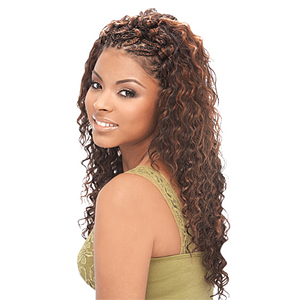
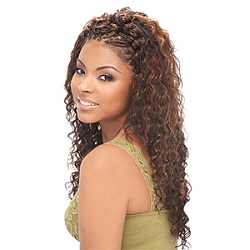
comment

diff --git a/web/js/events/events_mybookings.js b/web/js/events/events_mybookings.js
@@ -3,10 +3,11 @@
 $(document).ready(function() {
 	if (getCookie("mobileops_temp_login") == null) {
 		if(getCookie("mobileops") == null){
-			console.log('mobileops_temp_login and mobileops are null');
-			window.location.href = "/index.php?logout";
-		}else{
-			//saveCookieToSession();
+			//if user just logged in sometimes the system checks for the cookie before its created
+			var referrer = document.referrer;
+			if(referrer.localeCompare("http://localhost/index.php?login") !== 0){
+				window.location.href = "/index.php?logout";
+			}
 		}
 	}
 

diff --git a/web/css/style.css b/web/css/style.css
@@ -1509,6 +1509,6 @@ width:100%;
 
 
 .home_images{
-	width:250px;
-	height:250px;
+	max-width:250px;
+	max-height:250px;
 }

diff --git a/src/AppBundle/Controller/controller_booking.php b/src/AppBundle/Controller/controller_booking.php
@@ -193,13 +193,13 @@ function regionServiceDTOtoBookingServiceRegionService($regionServicePriceDTO,$b
 
 
 function getBookingsByUserId($entityManager,$userObject){
-	$booking_object     = $entityManager->getRepository('Booking')->findBy(array('active' => TRUE,'user' => $userObject));
+	$booking_objects     = $entityManager->getRepository('Booking')->findBy(array('active' => TRUE,'user' => $userObject));
 	$activeBookingsArray = array ();
 
-	foreach ($booking_object as &$value) {
+	foreach ($booking_objects as &$value) {
 		array_push($activeBookingsArray,$value);
 	}
-	$_SESSION['user_bookings'] = $activeBookingsArray;
+	$_SESSION['user_bookings'] = serialize($activeBookingsArray);
 	
 	return $activeBookingsArray;
 }
@@ -214,7 +214,7 @@ function getBookingsByPartnerId($entityManager,$userObject){
 		$booking_object = $value->getBooking();
 		array_push($activeBookingsArray,$booking_object);
 	}
-	$_SESSION['user_bookings'] = $activeBookingsArray;
+	$_SESSION['user_bookings'] = serialize($activeBookingsArray);
 
 	
 	return $activeBookingsArray;
@@ -397,7 +397,7 @@ function completeBooking($entityManager){
 		$suburb = $_POST['sublocality'];
 		$city = $_POST['locality'];
 
-		$_SESSION['booking_user'] = $_POST ['name'];
+		$_SESSION['booking_user'] = $_POST ['firstname'];
 
 		$date = new DateTime();
 
@@ -437,7 +437,7 @@ function completeBooking($entityManager){
 		
 		$booking_user_profile  = new BookingUserProfile();
 		$booking_user_profile->setEmailAddress($_POST ['email']);
-		$booking_user_profile->setFirstName($_POST ['name']);
+		$booking_user_profile->setFirstName($_POST ['firstname']);
 		$booking_user_profile->setPhoneNumber($_POST ['mobile_number']);
 		$booking_user_profile->setSurname($_POST ['surname']);
 		$booking_user_profile->setDateCreated($date);
@@ -488,7 +488,7 @@ function completeBooking($entityManager){
 			return;
 		}
 
-		$bookingComments = addBookingComments($entityManager,$booking,$_POST['bookingNotes'],$_POST ['name']);
+		$bookingComments = addBookingComments($entityManager,$booking,$_POST['bookingNotes'],$_POST ['firstname']);
 
 		
 		if(!$bookingComments){
@@ -644,10 +644,11 @@ function getBookingsInCalender($entityManager){
 	$user_bookings = null;
 	if (isset($_SESSION['user_bookings']))
 	{
-		//$user_bookings = $_SESSION['user_bookings'];
+		$user_bookings = unserialize($_SESSION['user_bookings']);
 	}
 
 	if($user_bookings==null){
+		echo "this is still called";
 		$user_object = $entityManager->getRepository('User')->findOneBy(array('active' => TRUE,'userId' => $_SESSION['user_id']));
 		if($user_object && strcmp($_SESSION['user_role'], "CLIENT") == 0 ){
 			$user_bookings = getBookingsByUserId($entityManager,$user_object);
@@ -697,7 +698,7 @@ function getAllUserBookings($entityManager){
 			array_push ($bookings_array, $value);
 		}
 
-		$_SESSION['user_bookings'] = $bookings_array;
+		$_SESSION['user_bookings'] = serialize($bookings_array);
 
 		$response['status'] = 1;
 		$response['message'] = $bookings_array;
@@ -721,7 +722,7 @@ function getAllUserBookingsFromUserSession($entityManager){
 			array_push ($bookings_array, $value);
 		}
 
-		$_SESSION['user_bookings'] = $bookings_array;
+		$_SESSION['user_bookings'] = serialize($bookings_array);
 
 		$response['status'] = 1;
 		$response['message'] = $bookings_array;
@@ -752,7 +753,7 @@ function getBookingTimeDetails($entityManager){
 
 function getBookingFromSessionByID($booking_id){
 
-	$user_bookings_in_session = $_SESSION['user_bookings'];
+	$user_bookings_in_session = unserialize($_SESSION['user_bookings']);
 	$booking = null;
 
 	if($user_bookings_in_session!=null){
@@ -1551,14 +1552,14 @@ function changeBookingUserProfileStatus($entityManager,$currentBookingUserProfil
 
 function send_booking_confirmation_message($entityManager, $booking_id){
 	try {
-		$name = $_POST ['name'];
+		$name = $_POST ['firstname'];
 		$surname = $_POST ['surname'];
 		$email = $_POST ['email'];
 		$phone_number = $_POST ['mobile_number'];
 		$message_type = "booking_confirmation";
 		$message = "test";
 
-		$personalDetails = $_POST['name'] . " " . $_POST['surname'] . "<br/>" 
+		$personalDetails = $_POST['firstname'] . " " . $_POST['surname'] . "<br/>" 
 		.  $_POST ['email'] . "<br/>" . 
 		$_POST ['mobile_number']. "<br/>
 		<h4>APPOINTMENT ADDRESS</h4>". "<p>"
@@ -1569,7 +1570,7 @@ function send_booking_confirmation_message($entityManager, $booking_id){
 		. $_POST['locality'];
 		
 		$Parameters = array(
-				"first_name" => $_POST['name'],
+				"first_name" => $_POST['firstname'],
 				"last_name" => $_POST['surname'],
 				"mobile_number" => $_POST['mobile_number'],
 				"personal_details" => $personalDetails,

diff --git a/src/AppBundle/Logic/login.php b/src/AppBundle/Logic/login.php
@@ -136,7 +136,7 @@ class Login {
 
 								//print_r($json);
 								//save temp login cookie expiring after 24hrs
-								setcookie ( "mobileops_temp_login", $json, time () + (3600), "/" ); // here we are setting a cookie named username, with the Username on the database that will last 48 hours and will be set on the understandesign.com domain. This is an optional parameter.
+								//setcookie ( "mobileops_temp_login", $json, time () + (3600), "/" ); // here we are setting a cookie named username, with the Username on the database that will last 48 hours and will be set on the understandesign.com domain. This is an optional parameter.
 								
 								if (isset ( $_POST ['rememberme'] )) {
 									setcookie ( "mobileops", $json, time () + (86400 * 30), "/" ); // here we are setting a cookie named username, with the Username on the database that will last 48 hours and will be set on the understandesign.com domain. This is an optional parameter.

diff --git a/web/views/menu_browser.php b/web/views/menu_browser.php
@@ -5,15 +5,15 @@
 <html>
 
 <head>
+<link rel="shortcut icon" href="web/favicon.ico" />
 
-<title></title>
+<meta name="description" content="Mobile Beaty Salon provides salon service at the convinient of your home. we provide Hair, Nails and massage services" />
+
+<meta name="keywords" content="Mobile, Salon, Mobile Salon, Mobile Salon Johhanesburg, Mobile Salon Gauteng, Mobile Nails, Mobile Massage, Mobile Massage Johhanesburg, Mobile Massage Gauteng" />
 <script src="web/js/commons.js" type="text/javascript"></script>
 
 <meta http-equiv="content-type" content="text/html; charset=utf-8" />
 
-<meta name="description" content="" />
-
-<meta name="keywords" content="" />
 
 <link rel="stylesheet"
 	href="//netdna.bootstrapcdn.com/bootstrap/3.3.0/css/bootstrap.min.css">

diff --git a/web/views/menu_partner.php b/web/views/menu_partner.php
@@ -6,15 +6,16 @@
 
 <head>
 
-<title></title>
+<link rel="shortcut icon" href="web/favicon.ico" />
 
 <script src="web/js/commons.js" type="text/javascript"></script>
 
 <meta http-equiv="content-type" content="text/html; charset=utf-8" />
 
-<meta name="description" content="" />
+<meta name="description" content="Mobile Beaty Salon provides salon service at the convinient of your home. we provide Hair, Nails and massage services" />
 
-<meta name="keywords" content="" />
+<meta name="keywords" content="Mobile, Salon, Mobile Salon, Mobile Salon Johhanesburg, Mobile Salon Gauteng, Mobile Nails, Mobile Massage, Mobile Massage Johhanesburg, Mobile Massage Gauteng" />
+
 
 <link rel="stylesheet"
 	href="//netdna.bootstrapcdn.com/bootstrap/3.3.0/css/bootstrap.min.css">

diff --git a/web/views/menu_client.php b/web/views/menu_client.php
@@ -3,14 +3,15 @@
 
 <head>
 
-<title></title>
+<link rel="shortcut icon" href="web/favicon.ico" />
+
 <script src="web/js/commons.js" type="text/javascript"></script>
 
 <meta http-equiv="content-type" content="text/html; charset=utf-8" />
 
-<meta name="description" content="" />
+<meta name="description" content="Mobile Beaty Salon provides salon service at the convinient of your home. we provide Hair, Nails and massage services" />
 
-<meta name="keywords" content="" />
+<meta name="keywords" content="Mobile, Salon, Mobile Salon, Mobile Salon Johhanesburg, Mobile Salon Gauteng, Mobile Nails, Mobile Massage, Mobile Massage Johhanesburg, Mobile Massage Gauteng" />
 
 <link rel="stylesheet"
 	href="//netdna.bootstrapcdn.com/bootstrap/3.3.0/css/bootstrap.min.css">

diff --git a/web/views/booking.php b/web/views/booking.php
@@ -2,7 +2,7 @@
 <html>
 
 <head>
-
+<title>New Booking</title>
 <script src="web/js/events/events_booking.js"></script>
 
 
@@ -173,7 +173,7 @@
                      <div class="6u 12u(3)">
                      	<div class="field">
                      	
- <input type="text" name="name" id="firstname" value=""
+ <input type="text" name="firstname" id="firstname" value=""
                            placeholder="Name"/>
     <span class="error"></span>
   </div>

diff --git a/web/views/login.php b/web/views/login.php
@@ -1,6 +1,7 @@
 <!DOCTYPE HTML>
 <html>
    <head>
+   <title>Login</title>
    <link rel="stylesheet"href="http://necolas.github.io/normalize.css/2.1.3/normalize.css">
 	<link rel="stylesheet" href="web/css/jquery.idealforms.css">
 <script src="web/js/facebook.js"></script>

diff --git a/web/views/reset_password.php b/web/views/reset_password.php
@@ -1,6 +1,7 @@
 <!DOCTYPE HTML>
 <html>
    <head>
+   <title>Reset Password</title>
    <link rel="stylesheet"
 	href="http://necolas.github.io/normalize.css/2.1.3/normalize.css">
 <link rel="stylesheet" href="web/css/jquery.idealforms.css">

diff --git a/web/views/partner_gallery.php b/web/views/partner_gallery.php
@@ -1,7 +1,7 @@
 <!DOCTYPE HTML>
 <html>
 <head>
-
+<title>Gallery</title>
 <script src="web/js/lean-slider.js"></script>
 <script src="web/js/commons.js"></script>
 <link rel="stylesheet" href="web/css/lean-slider.css" type="text/css" />

diff --git a/web/views/partner_register.php b/web/views/partner_register.php
@@ -1,6 +1,7 @@
 <!DOCTYPE HTML>
 <html>
    <head>
+   <title>Register</title>
    <link rel="stylesheet"
 	href="http://necolas.github.io/normalize.css/2.1.3/normalize.css">
 <link rel="stylesheet" href="web/css/jquery.idealforms.css">
